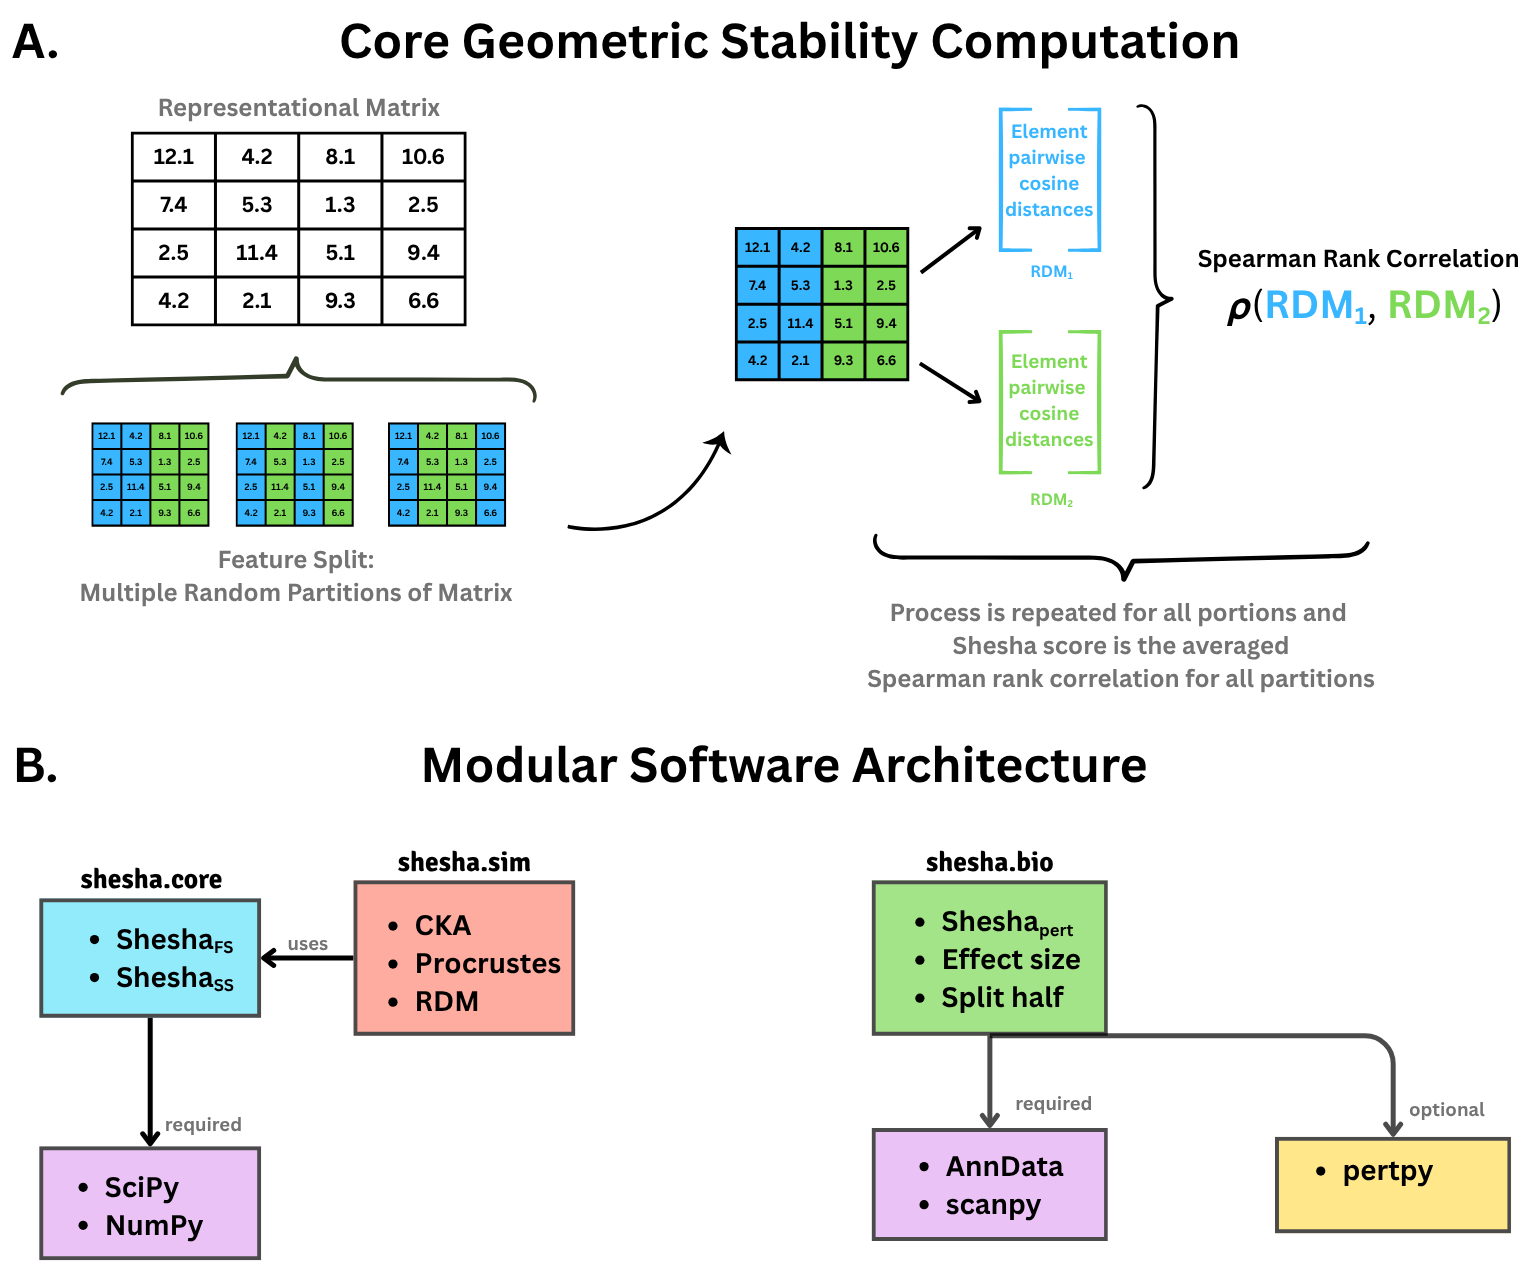
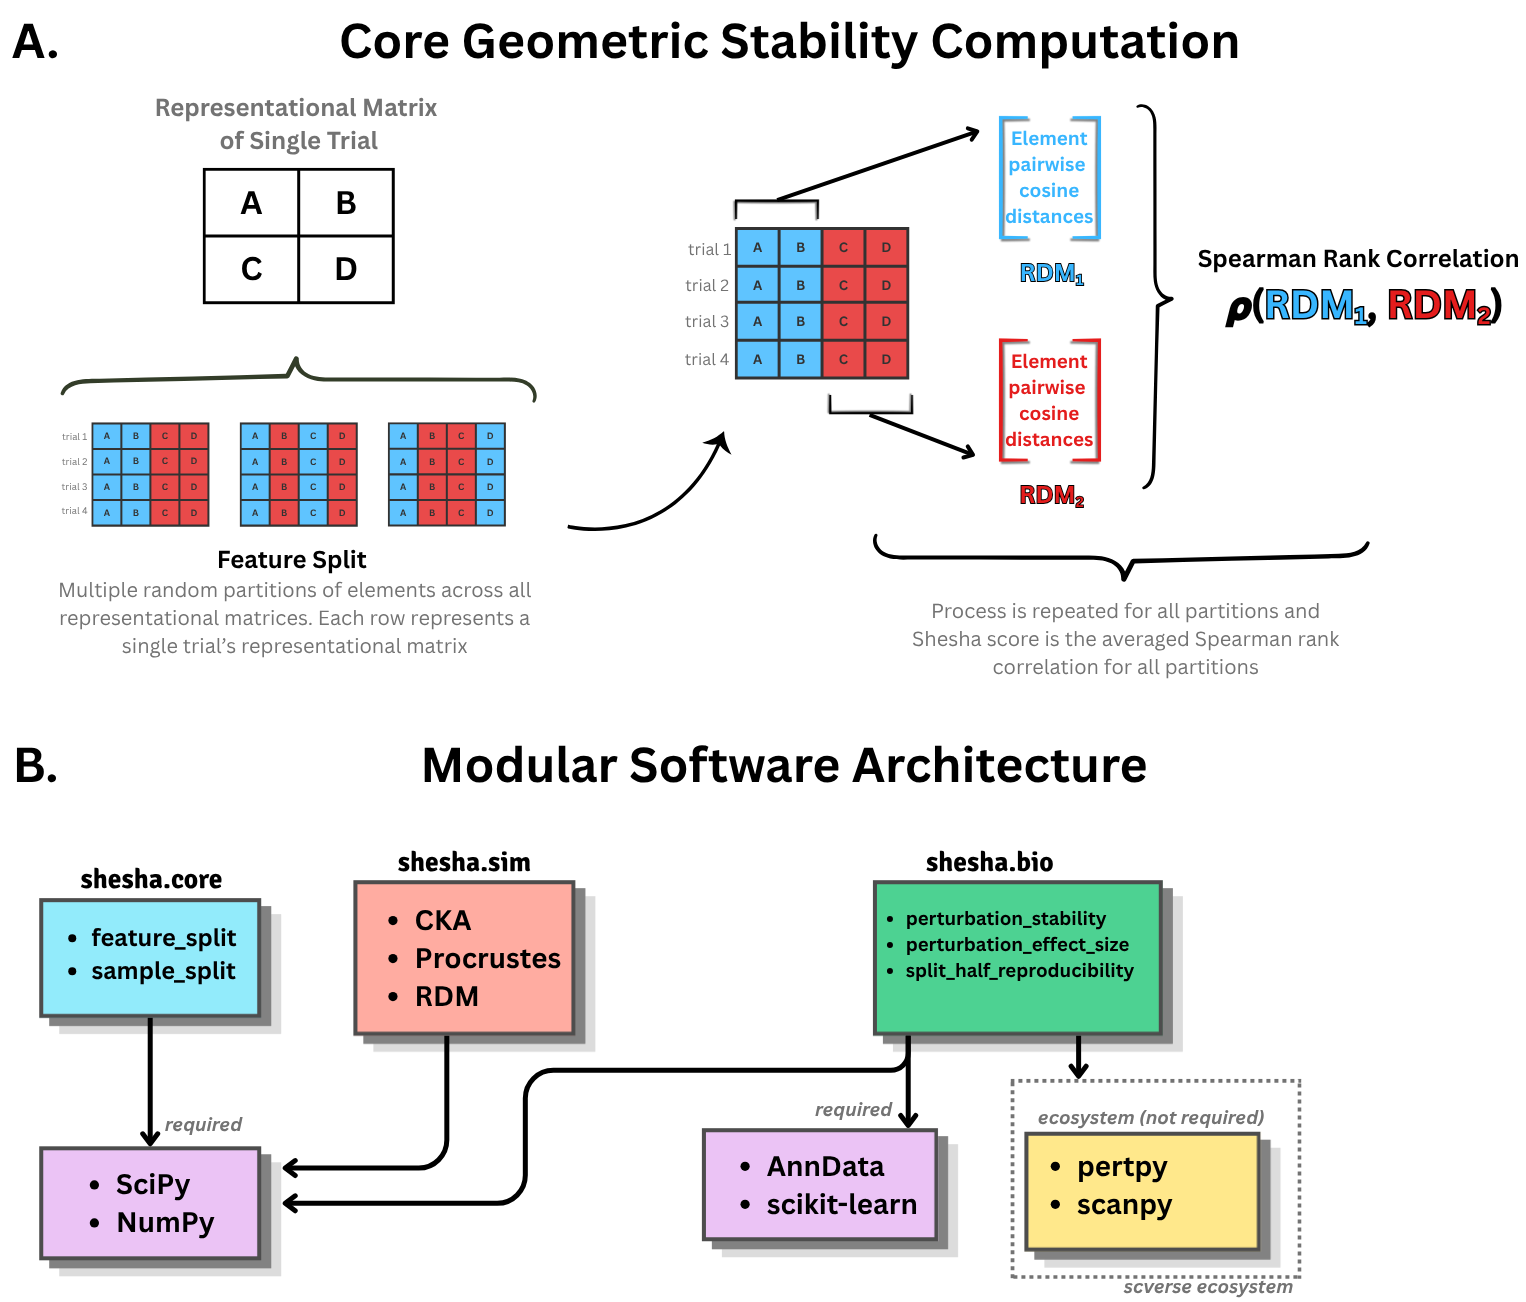
updated figure and paper draft

diff --git a/paper/paper.md b/paper/paper.md
@@ -39,7 +39,7 @@ where $\text{vec}(\cdot)$ extracts the upper triangular elements. The choice of 
 
 ## Unsupervised Variants (Foundations Paper)
 
-$\text{Shesha}_{\text{FS}}$ (`feature_split`) assesses internal geometric consistency by partitioning feature dimensions into random disjoint halves:
+$\text{Shesha}_{\text{FS}}$ (`feature_split`) assesses internal geometric consistency by partitioning feature dimensions into random disjoint halves (\autoref{fig:overview}A):
 
 $$\text{Shesha}_{\text{FS}}(\mathbf{X}) = \frac{1}{K} \sum_{k=1}^{K} \rho_s\bigl(\text{vec}(\mathbf{D}_{\mathcal{F}_k^{(1)}}), \text{vec}(\mathbf{D}_{\mathcal{F}_k^{(2)}})\bigr)$$
 
@@ -69,8 +69,7 @@ where $\bar{\mathbf{d}}$ is the mean shift direction from control to perturbed p
 
 All variants use Spearman correlation by default (robust to monotonic transformations and outliers) and subsample to $n_{\max}=1600$ when computational constraints require.
 
-![**A**: Core geometric stability computation for $\text{Shesha}_{\text{FS}}$: the representation matrix $\mathbf{X}$ is split into complementary feature subsets, RDMs are computed on each, and their Spearman rank correlation yields the stability score. **B**: Modular software architecture of `shesha-geometry`, showing the dependency structure across `shesha.core`, `shesha.bio`, and the scverse ecosystem.](overview.png){ width=100% }
-
+![**A**: Core geometric stability computation for $\text{Shesha}_{\text{FS}}$: the representation matrix $\mathbf{X}$ is split into complementary feature subsets, RDMs are computed on each, and their Spearman rank correlation yields the stability score. **B**: Modular software architecture of `shesha-geometry`, showing the dependency structure across `shesha.core`, `shesha.bio`, and the scverse ecosystem.\label{fig:overview}](overview.png){ width=100% }
 # Statement of Need
 
 Geometric stability is an **intrinsic property** of a representation's manifold that measures how consistently it preserves internal geometric structure across varied feature subsets or under perturbation. Unlike similarity metrics such as CKA [@kornblith2019similarity] and RSA [@Kriegeskorte2008], which are **extrinsic properties** measuring how one representation aligns with another—stability is reference-independent. It asks whether the internal "geometry" of the representational space is robust or brittle. Shesha provides a unified API for geometric stability analysis, with applications spanning representation learning [@raju2026geometric], model steerability and drift detection [@raju2026canary], and single-cell perturbation biology [@raju2026crispr].